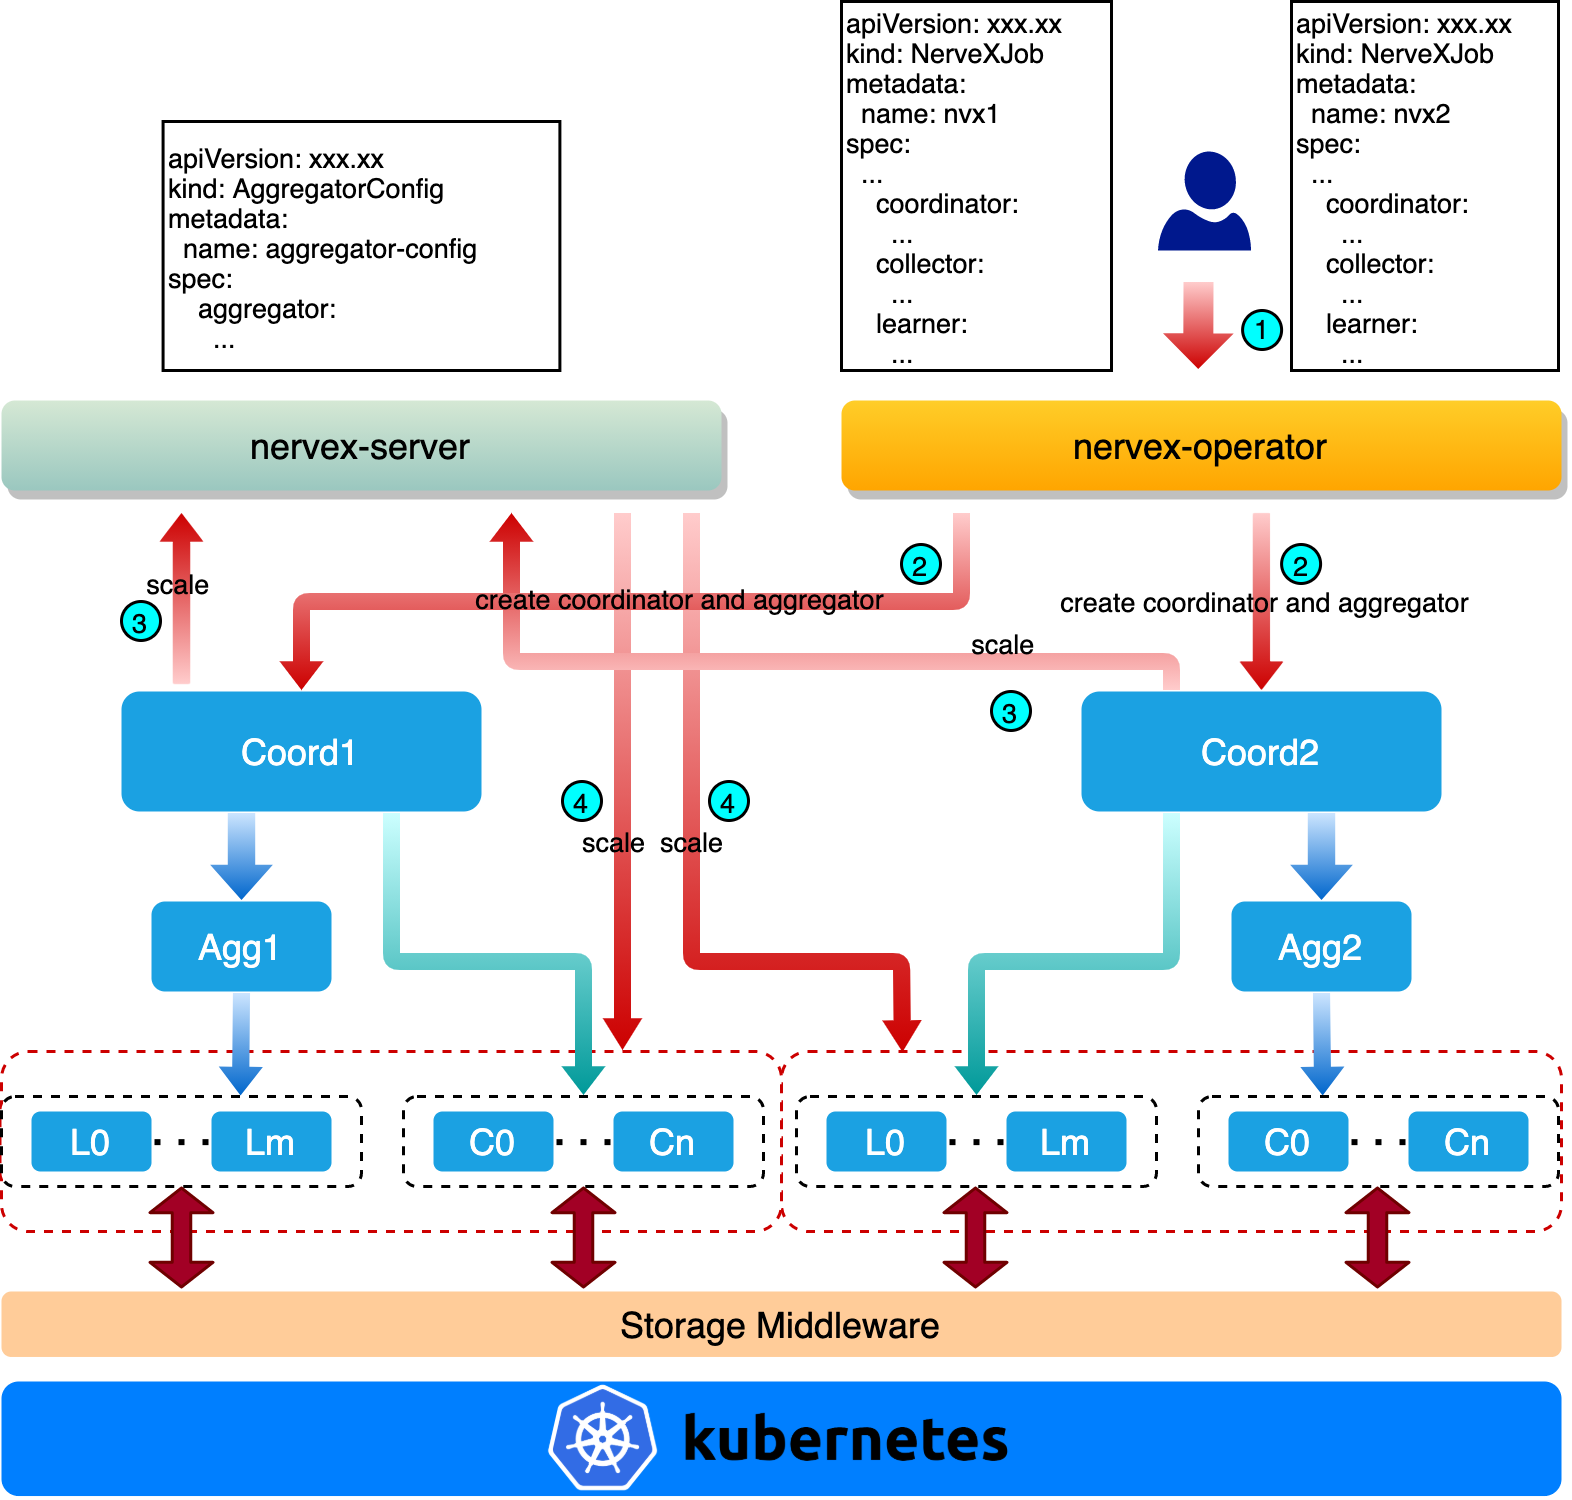
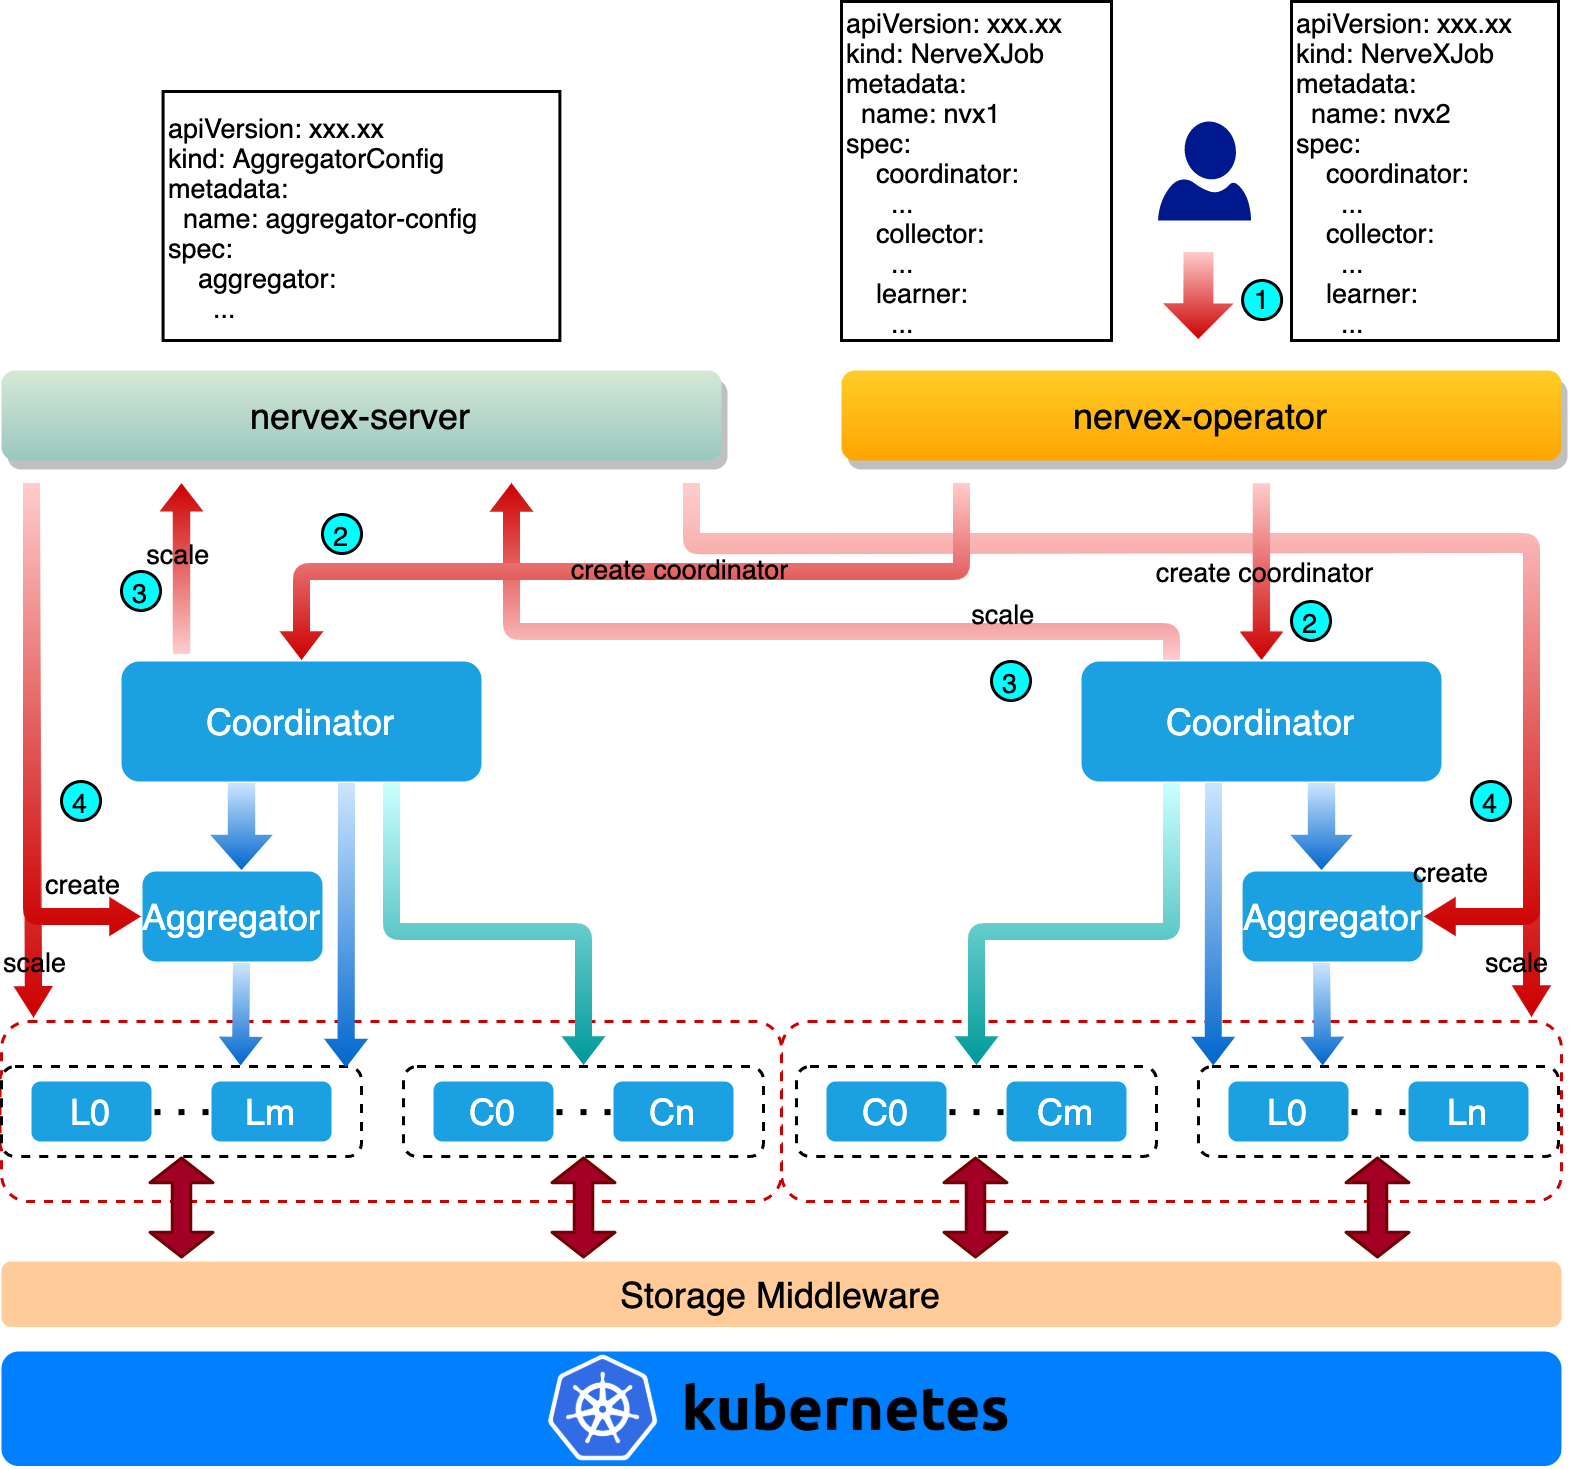
docs: add nervex-operator description

diff --git a/docs/architecture.md b/docs/architecture.md
@@ -6,21 +6,83 @@
 
 ## 任务创建流程
 这里介绍任务创建流程，说明一个nerveX任务在k8s中从创建到执行完成的一整个生命周期
-- 编写AggregatorConfig yaml文件，定义Aggregator的模板，该模板将在后面创建NerveXJob的时候用来创建aggregator
-- 编写NerveXJob yaml文件，定义coordinator、collector、learner的模板，提交到k8s集群中
-- nervex-operator监听到NerveXJob的提交事件，将coordinator（上图中Coord）和aggregator（上图中Agg）创建出来，并为coordinator和aggregator创建可相互访问的域名
-- coordinator启动之后按照默认配置向nervex-server请求创建一定数目的collector和learner
-- nervex-server收到coordinator的创建请求后，读取NerveXJob中collector和learner的模板，创建相应数目的collector（上图中Cn）和learner（上图中Lm）并把collector和learner可访问的URL返回给请求方
-- coordinator等待collector和learner连接上后开始下发任务开始训练
-- 用户可手动向nervex-server发送请求增删collector和learner，coordinator会定期查询其可用的collector和learner数目并决定新建或断开连接
+- 编写AggregatorConfig yaml文件，定义Aggregator的模板，该模板将在后面创建NerveXJob的时候用来创建aggregator。
+- 编写NerveXJob yaml文件，定义coordinator、collector、learner的模板，提交到k8s集群中。
+- nervex-operator监听到NerveXJob的提交，创建coordinator，并为coordinator创建可访问的域名。
+- coordinator启动之后按照默认配置向nervex-server请求创建一定数目的collector和learner。
+- nervex-server收到coordinator的创建请求后，读取NerveXJob中collector和learner的模板，创建相应数目的collector（上图中Cn）和learner（上图中Lm）并把collector和learner可访问的URL返回给请求方。同时，根据每个learner中申请的GPU数目来决定是否创建aggregator。即当learner申请的GPU数目大于1时创建为该learner创建一个aggregator，否则不创建aggregator。
+- coordinator等待collector、learner和aggregator连接上后开始下发任务开始训练。
+- 用户可手动向nervex-server发送请求增删collector和learner，coordinator会定期查询其可用的collector和learner数目并决定新建或断开连接。
 - 训练结束后，nervex-operator默认会将所有处于Running状态的pod删除，coordinator处于Completed状态，则不会被删除
 
 ## nervex-operator
 nervex-operator是在一个负责在k8s系统中编排NerveXJob的组件，采用k8s [operator pattern](https://kubernetes.io/docs/concepts/extend-kubernetes/operator/)，通过[controller pattern](https://kubernetes.io/docs/concepts/architecture/controller/)中的控制循环监听k8s集群中NerveXJob的状态，并在有需要的时候对NerveXJob的状态进行修改，使得NerveXJob的实际状态与我们预定义的状态尽可能保持一致。
 
 ### API定义
+nerveX框架分为4个重要的模块，分别是coordinator、aggregator、collector和learner，根据每个模块的特性，我们定义了两种自定义资源（Custom Resource），分别是NerveXJob和AggregatorConfig。前者用来定义一个RL任务的coordinator、collector和learner运行所需的必备条件，包括镜像、启动命令、所需计算和存储资源、环境变量等；后者用来定义一个RL任务的aggregator运行所需的必备条件。
 
+NerveXJob定义：
+```go
+type NerveXJobSpec struct {
+	// Group is a collection of NerveXJobs
+	Group string `json:"group,omitempty"`
+
+	//Priority labels the priority of NerveXJob
+	PriorityClassName PriorityClassName `json:"priorityClassName,omitempty"`
+
+	// CleanPodPolicy defines the policy to clean pods after NerveXJob completed
+	CleanPodPolicy CleanPodPolicy `json:"cleanPodPolicy,omitempty"`
+
+	// Volumes defines the shared volumes for nerveX components
+	Volumes []corev1.Volume `json:"volumes,omitempty"`
+
+	Coordinator CoordinatorSpec `json:"coordinator"`
+
+	Collector CollectorSpec `json:"collector,"`
+
+	Learner LearnerSpec `json:"learner,"`
+}
+```
+
+AggregatorConfig定义：
+```go
+type AggregatorConfigSpec struct {
+	Aggregator AggregatorSpec `json:"aggregator,"`
+}
+```
+
+> **为什么aggregator单独定义？**
+    aggregator对所有使用nerveX框架进行RL训练的任务都是通用的，因此我们将aggregator定义为一个全局的、共享的资源AggregatorConfig，所有RL任务提交后，nervex-operator都将通过读取集群中唯一的AggregatorConfig来创建aggregator。
 ### 状态定义
+用户提交NerveXJob后，nervex-operator便接管了NerveXJob的生命周期的管理，为了便于用户了解NerveXJob的状态，我们定义了以下阶段（phase）：
+
+```go
+const (
+	// JobCreated means the job has been submitted to the cluster,
+	// but not all the pods and services have been created,
+	// or no pods are running
+	JobCreated Phase = "Created"
+
+	// JobRunning means all the pods are in running state
+	JobRunning Phase = "Running"
+
+	// JobSucceeded means job completed without error
+	JobSucceeded Phase = "Succeeded"
+
+	// JobFailed means some pods failed, job is also considered failed
+	JobFailed Phase = "Failed"
+
+	// JobUnknown means the job is in unknown state
+	JobUnknown Phase = "Unknown"
+)
+```
+一个正常运行并结束的NerveXJob会经历Created、Running和Succeeded三个阶段：
+- 当NerveXJob提交后，nervex-operator将coordinator和aggregator创建后进入Created阶段
+- 当coordinator pod处于Running阶段后NerveXJob进入Running阶段
+- 当coordinator pod处于Completed阶段后NerveXJob进入Succeeded阶段。
+另外，当coordinator pod处于Failed阶段时，NerveXJob也会进入Failed阶段。而aggregator、collector、learner在失败后会立即重启，不会影响NerveXJob所处的阶段。
+
+Unknown阶段暂时未作定义。
 
 ### 控制循环
 使用[kubebuilder v3](https://github.com/kubernetes-sigs/kubebuilder/releases/download/v3.0.0/kubebuilder_linux_amd64)构建项目，operator所需的[reflector、informer、indexer](https://github.com/kubernetes/sample-controller/blob/master/docs/controller-client-go.md)、controller等组件都由[controller-runtime](https://github.com/kubernetes-sigs/controller-runtime)封装到[manager](https://github.com/kubernetes-sigs/controller-runtime/blob/master/pkg/manager/manager.go)中，将调谐（Reconcile）函数暴露给我们实现调谐逻辑，如下代码所示：
@@ -31,5 +93,27 @@ func (r *NerveXJobReconciler) Reconcile(ctx context.Context, req ctrl.Request) (
 }
 ```
 
-当用户提交NerveXJob后，informer获取到该提交事件后触发handler，调用Reconcile函数；调用list pod方法发现coordinator和aggregator未创建，便读取AggregatorConfig中
-### Webhook
+当用户提交NerveXJob后，informer获取到该提交事件后触发handler，之后Reconcile函数被调用；Reconcile函数中调用list pod方法发现coordinator未创建，则读取NerveXJob中关于coordinator的定义模板，创建相应的coordinator pod（coordinator程序在其中运行）和service（用于pod间通信），并将一些环境变量写入pod中，包括pod的名称、pod的命名空间、访问coordinator的URL等环境变量。
+
+其中，nerveX框架的每个模块占用的端口都有一个默认值，如下所示：
+
+```go
+DefaultCollectorPort   = 22270
+DefaultLearnerPort     = 22271
+DefaultAggregatorPort  = 22272
+DefaultCoordinatorPort = 22273
+```
+
+coordinator创建之后，nervex-operator将监听pod的状态并修改NerveXJob的状态。等到NerveXJob完成后（Succeeded或者Failed），nervex-operator默认会将NerveXJob的所有处于Running阶段的pod和所有的service都删除，coordinator pod会保留。
+
+### webhook
+用户提交NerveXJob时，可能存在yaml文件里的某些字段输入错误的问题，导致NerveXJob的运行状态达不到预期，影响用户排查问题；或者需要为NerveXJob的某些字段设置默认值。如果在NerveXJob提交到k8s集群前能为NerveXJob设置默认值，以及做一次正确性校验，有助于用户提前发现问题。
+
+在k8s中，可以配置webhook在NerveXJob提交到k8s集群之前对其进行正确性校验。k8s webhook分为MutatingWebhook和ValidatingWebhook，前者用于修改k8s资源对象的值，后者用于验证k8s资源对象的正确性。
+
+nervex-operator中实现了webhook校验方法，创建MutatingWebhook用于设置NerveXJob的默认值；创建ValidatingWebhook用于校验NerveXJob的正确性。比如对`CleanPodPolicy`字段，我们在MutatingWebhook中设置其默认值为`Running`，表示NerveXJob完成后将Running的pod都删除；我们在ValidatingWebhook中校验`CleanPodPolicy`字段的值，如果用户设置的值不等于`None`、`ALL`、`Running`中的任何一个，则拒绝提交该NerveXJob。
+
+## nervex-server
+
+
+## nervex-k8s优势
